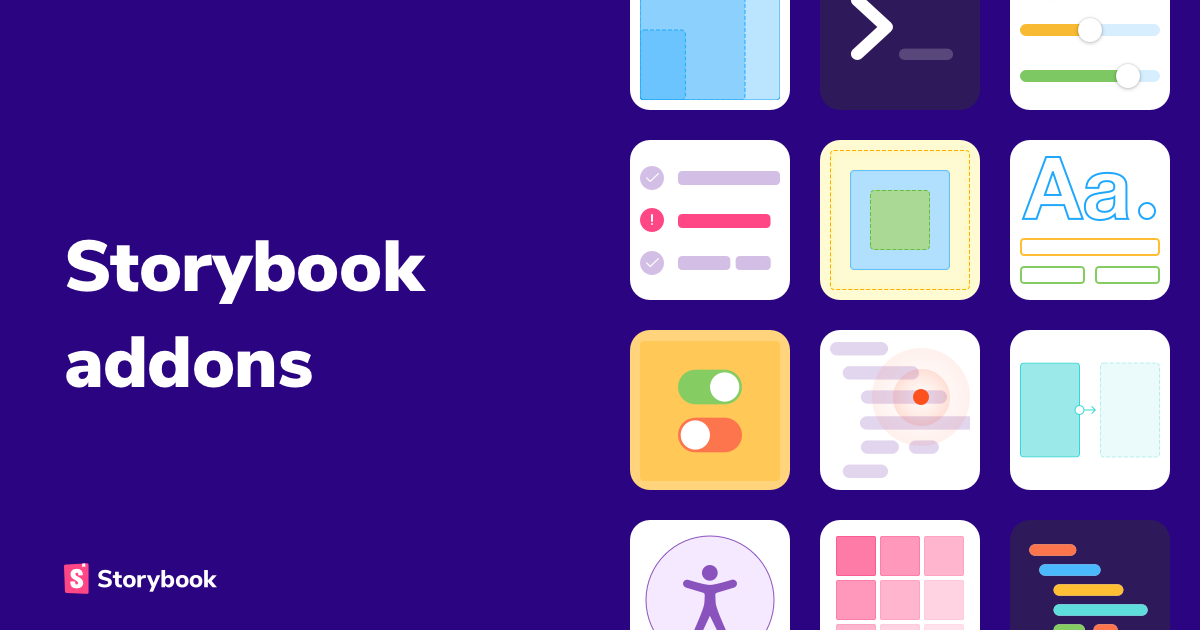
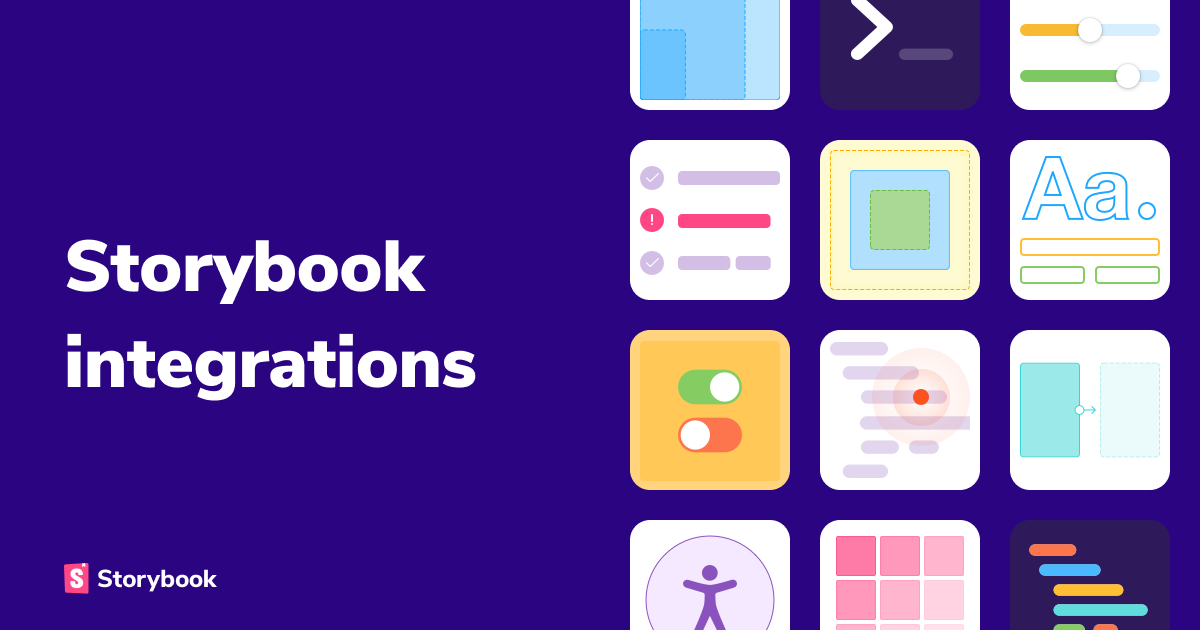
Update recipe metadata

diff --git a/src/components/screens/RecipesDetailScreen/RecipesDetailScreen.stories.js b/src/components/screens/RecipesDetailScreen/RecipesDetailScreen.stories.js
@@ -3,6 +3,9 @@ import { RecipesDetailScreen } from './RecipesDetailScreen';
 import MuiSVG from '../../../images/integrations/mui.svg';
 
 import { addonItemsData } from '../../layout/addons/AddonsGrid.stories';
+import { PurePageLayout } from '../../layout/PageLayout';
+
+import { dxData } from '../../layout/PageLayout.stories';
 
 export default {
   title: 'Integrations Catalog/Screens/RecipesDetailScreen',
@@ -79,20 +82,22 @@ const tags = [
 ];
 
 const Template = ({ recipe, ...args }) => (
-  <RecipesDetailScreen
-    pageContext={{
-      name: 'storybook-mobile',
-      displayName: 'Mobile UX lint',
-      description: 'Interact with component inputs dynamically in the Storybook UI',
-      weeklyViews: 17143,
-      publishedAt: 1604552400000,
-      lastUpdatedAt: 1604552400000,
-      tags,
-      ...recipe,
-    }}
-    location={{}}
-    {...args}
-  />
+  <PurePageLayout dxData={dxData} pageContext={{}} location={{ pathname: '/recipe/' }}>
+    <RecipesDetailScreen
+      pageContext={{
+        name: 'storybook-mobile',
+        displayName: 'Mobile UX lint',
+        description: 'Interact with component inputs dynamically in the Storybook UI',
+        weeklyViews: 17143,
+        publishedAt: 1604552400000,
+        lastUpdatedAt: 1604552400000,
+        tags,
+        ...recipe,
+      }}
+      location={{}}
+      {...args}
+    />
+  </PurePageLayout>
 );
 
 export const Default = Template.bind({});

diff --git a/src/components/layout/addons/AddonsLayout.js b/src/components/layout/addons/AddonsLayout.js
@@ -1,15 +1,7 @@
 import React, { useRef } from 'react';
 import PropTypes from 'prop-types';
 import { styled } from '@storybook/theming';
-import {
-  Input,
-  Icon,
-  TableOfContents,
-  global,
-  styles,
-  TagList,
-  TagLink,
-} from '@storybook/design-system';
+import { Input, Icon, TableOfContents, global, styles } from '@storybook/design-system';
 import GatsbyLinkWrapper from '../../basics/GatsbyLinkWrapper';
 import { AddonsLearn } from './AddonsLearn';
 import { AddonsSubheading } from './AddonsSubheading';

diff --git a/src/components/layout/recipes/RecipeItemDetail.js b/src/components/layout/recipes/RecipeItemDetail.js
@@ -144,7 +144,7 @@ export const RecipeItemDetail = ({
       <Image isLoading={isLoading} src={icon || emptySVG} />
       <div>
         <Title isLoading={isLoading}>
-          <span>{isLoading ? 'loading' : `Integrate Storybook and ${displayName || name}`}</span>
+          <span>{isLoading ? 'loading' : `Integrate ${displayName || name} and Storybook`}</span>
         </Title>
         <Description isLoading={isLoading}>
           <span>{isLoading ? 'loading description of addon' : description}</span>

diff --git a/src/components/screens/RecipesDetailScreen/RecipesDetailScreen.js b/src/components/screens/RecipesDetailScreen/RecipesDetailScreen.js
@@ -190,7 +190,7 @@ export const RecipesDetailScreen = ({ path, location, pageContext }) => {
   return (
     <>
       <SocialGraph
-        title={`${displayName} Recipe | ${title}`}
+        title={`Integrate ${displayName} with Storybook | Storybook`}
         desc={recipe.description || ''}
         url={`${home}${path}`}
         image={ogImageAddons}

diff --git a/src/components/layout/PageLayout.stories.js b/src/components/layout/PageLayout.stories.js
@@ -9,7 +9,7 @@ export default {
   component: PurePageLayout,
 };
 
-const dxData = {
+export const dxData = {
   subscriberCount: 5726,
   latestPost: {
     title: 'Why Storybook in 2022?',
